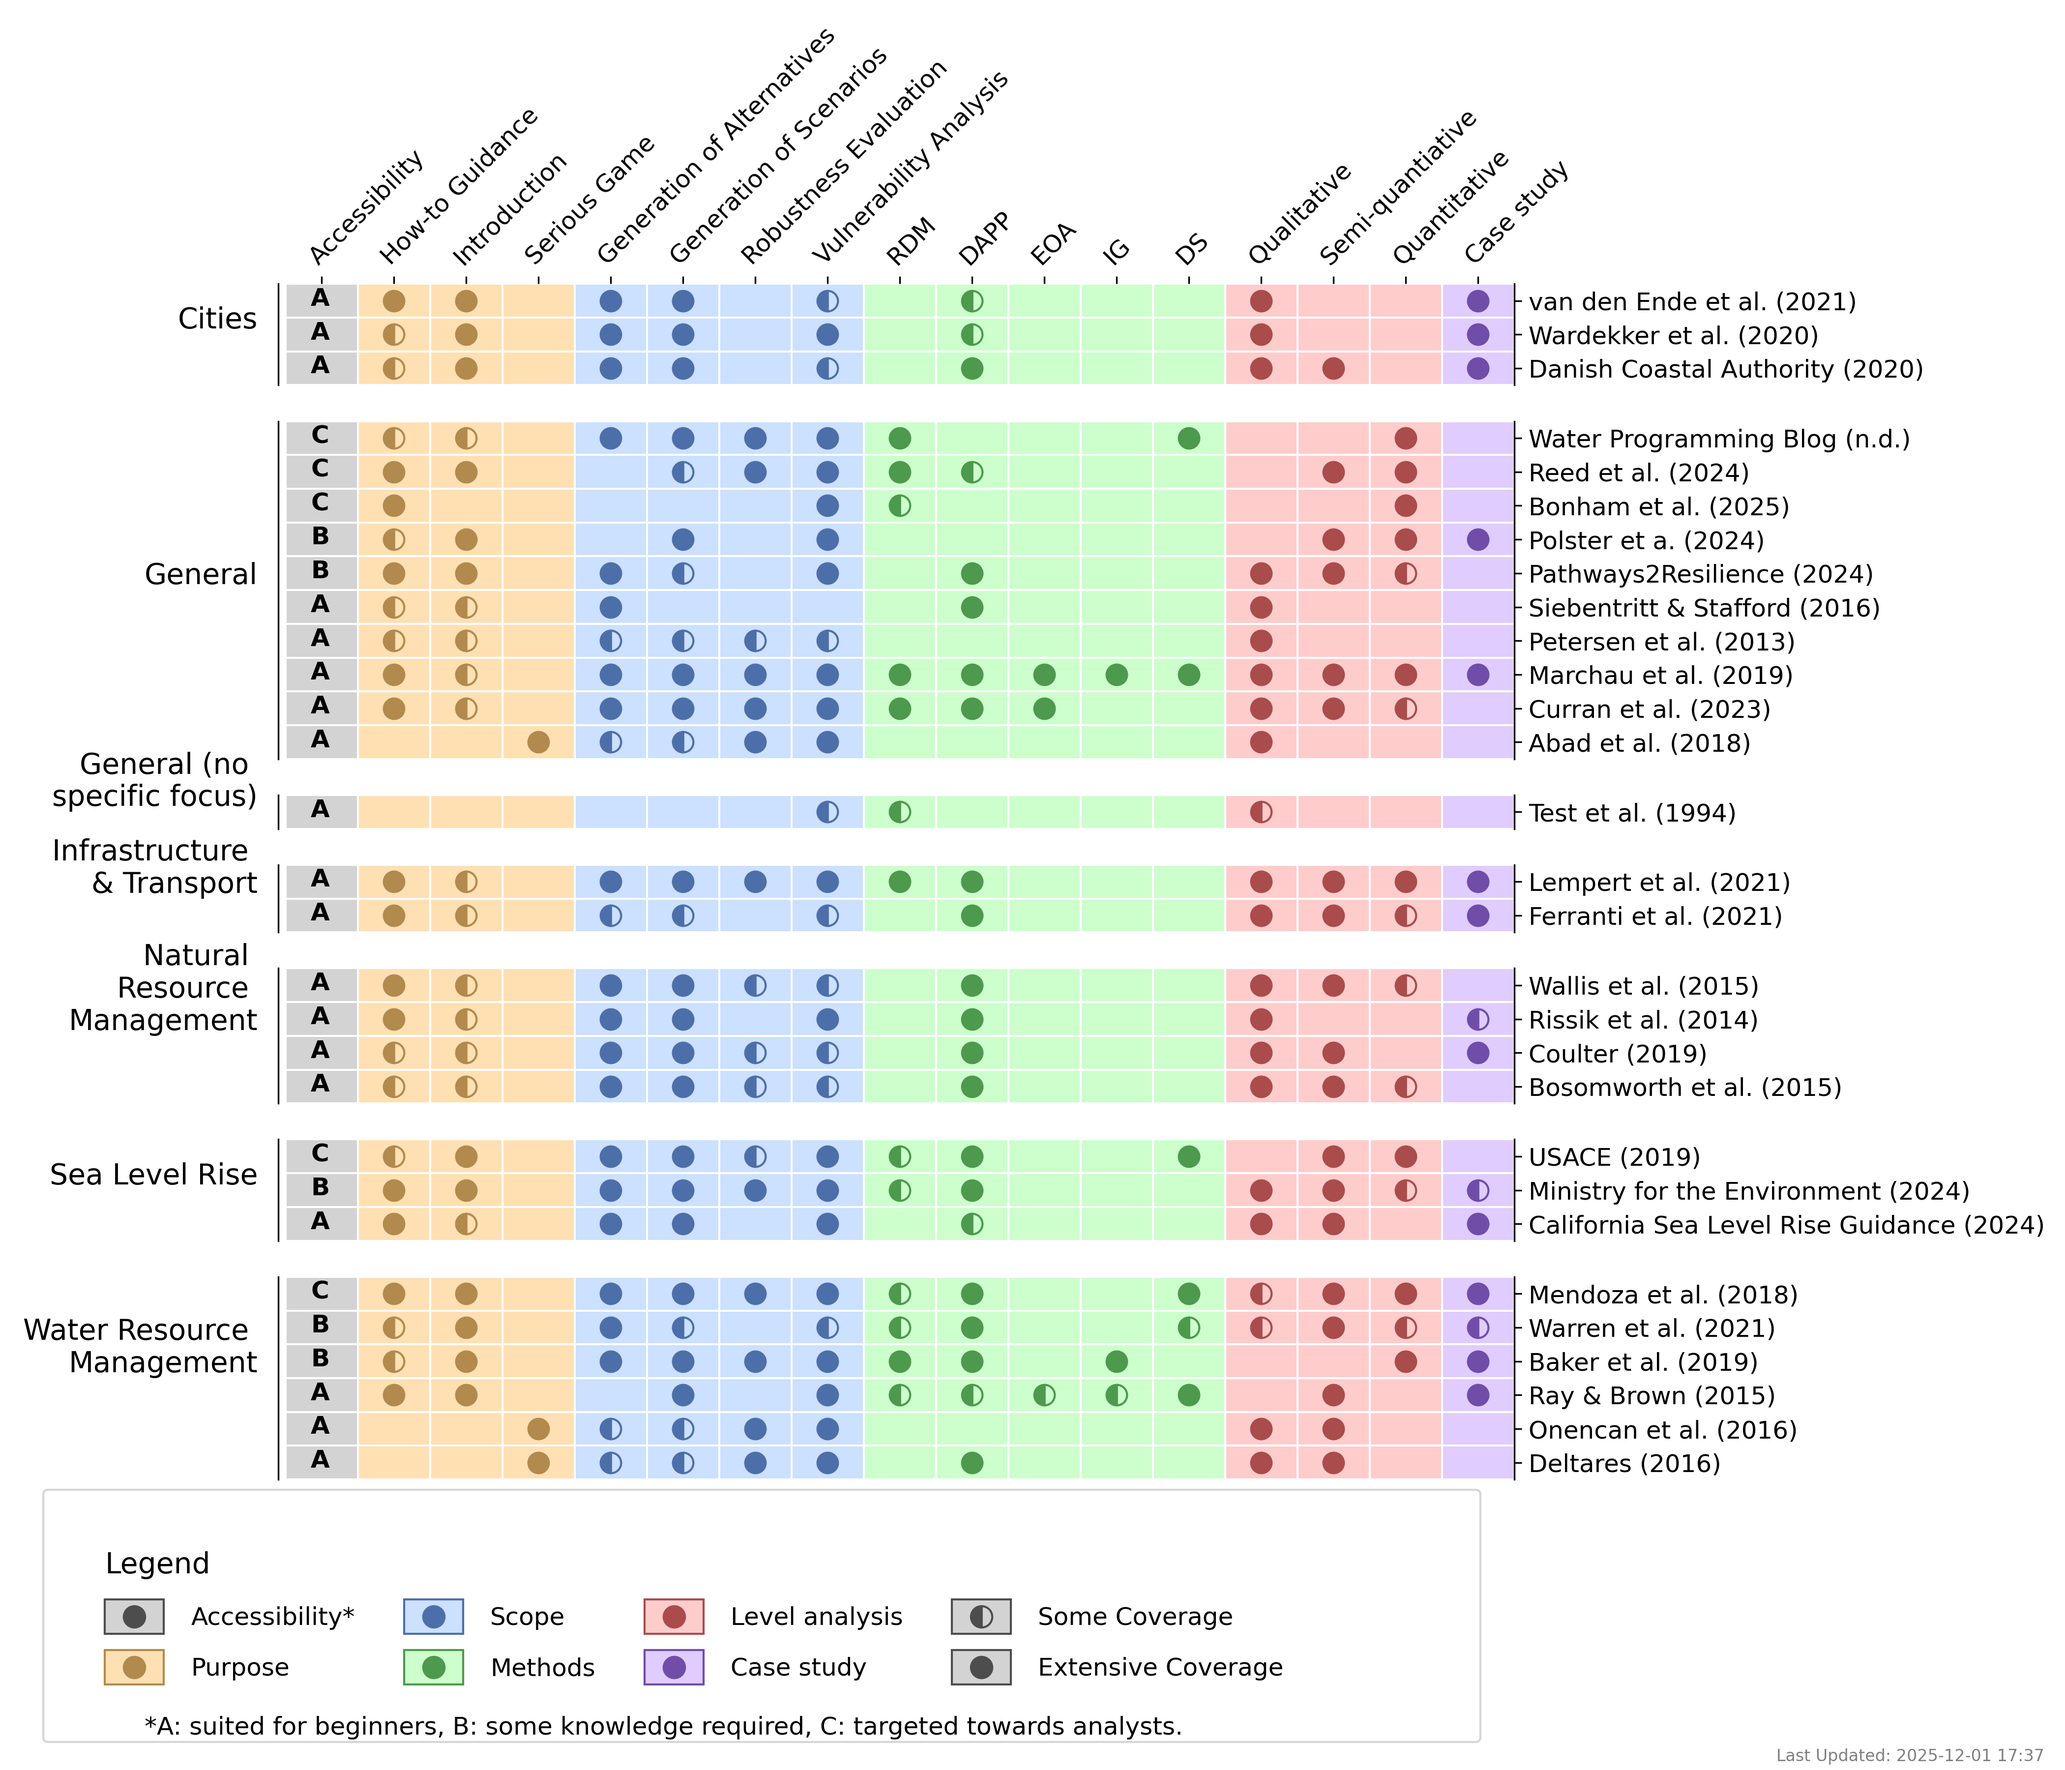
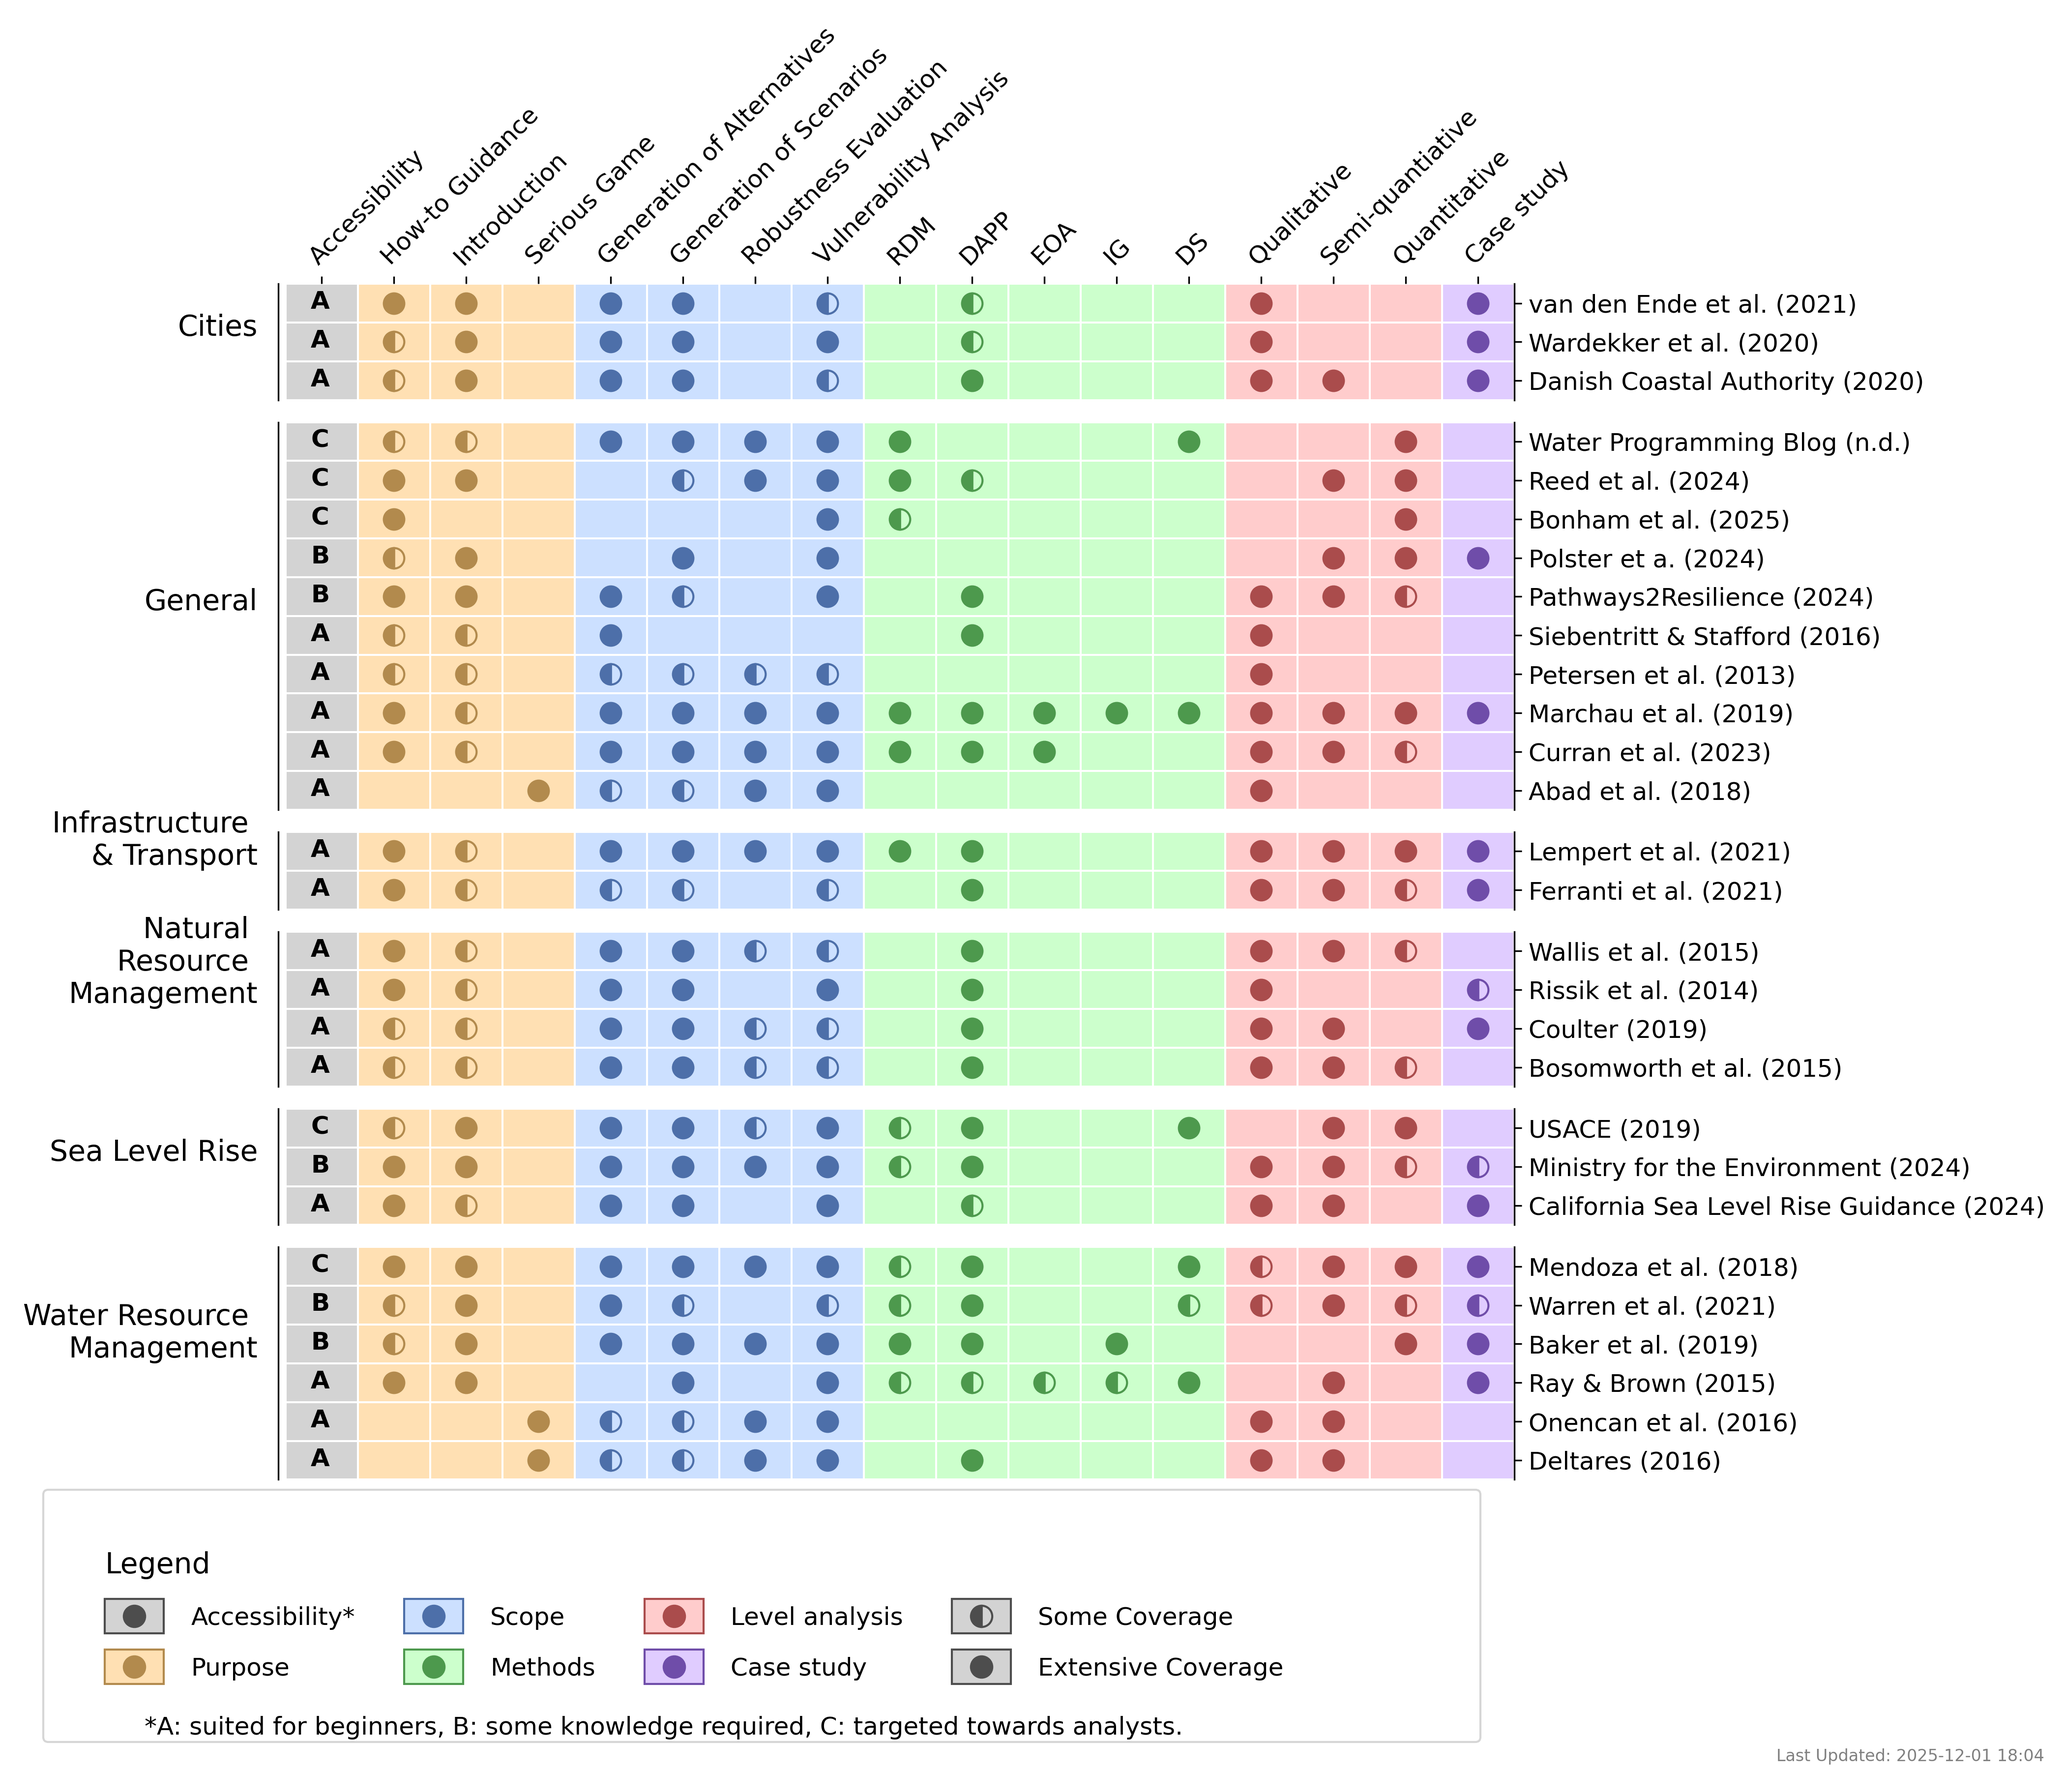
Auto-update from Google Sheet

Changed region(s): [[0.0, 0.1556, 0.9981, 0.84], [0.0936, 0.1556, 0.1248, 0.1867]]

diff --git a/outputs/table_resources.html b/outputs/table_resources.html
@@ -163,12 +163,6 @@
             </tr>
         
             <tr>
-                <td>Test et al. (1994)</td>
-                <td>Test description</td>
-                <td><a href="Www.Test.com" target="_blank">Link</a></td>
-            </tr>
-        
-            <tr>
                 <td>USACE (2019)</td>
                 <td>An engineering pamphlet offering procedural guidance for analyzing future sea level change (SLC) impacts on USACE projects. It focuses on assessing physical and ecological risks, but not as formal planning guidance.</td>
                 <td><a href="https://www.publications.usace.army.mil/Portals/76/Users/182/86/2486/EP-1100-2-1.pdf" target="_blank">Link</a></td>
